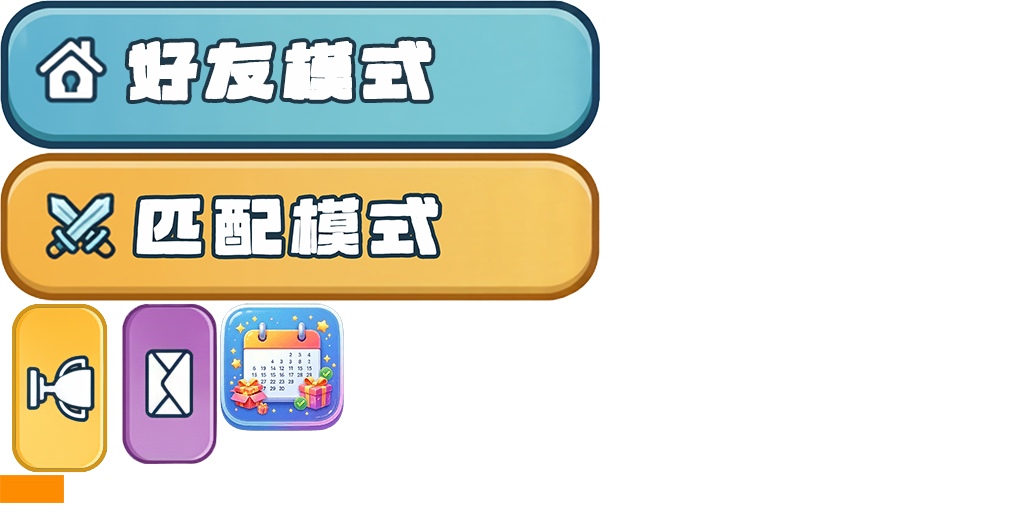
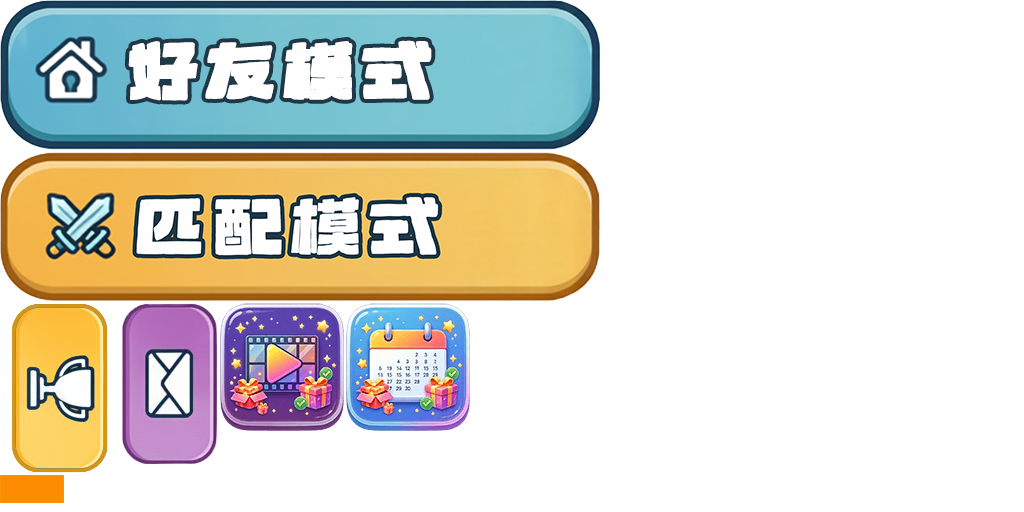
feat(ad): 添加广告奖励功能及相关UI组件
- 在BtnLobbyMenu组件中替换签到按钮图标为加载器并调整文字位置和样式
- 新增UI_BTN_AD按钮组件，支持“免费银子”广告按钮显示
- 添加ad.png广告图片资源并更新package.xml引用
- FGUICompLabbyMain类中新增UI_BTN_AD按钮及点击事件绑定
- 新增AdReward模块，实现请求和领取看广告奖励的网络接口调用及回调处理

Changed region(s): [[0.1875, 0.5938, 0.4688, 0.8438]]

diff --git a/assets/scripts/modules/AdReward.ts b/assets/scripts/modules/AdReward.ts
@@ -1,0 +1,64 @@
+import { SprotoCallActivityFunc } from "../../types/protocol/lobby/c2s";
+import { LogColors } from "../frameworks/Framework";
+import { LobbySocketManager } from "../frameworks/LobbySocketManager";
+
+
+export class AdReward {
+
+    private _getAdInfoCallBack: ((success: boolean, data: any) => void) | null = null;
+    private _receiveAdRewardCallBack: ((success: boolean, data: any) => void) | null = null;
+
+    /**
+     * 请求每日看广告领奖信息
+     * @param callBack 回调函数
+     */
+    reqGetAdInfo(callBack: (success: boolean, data: any) => void){
+        this._getAdInfoCallBack = callBack;
+        LobbySocketManager.instance.sendToServer(SprotoCallActivityFunc, {moduleName : 'adReward', funcName : 'getAdInfo', args:JSON.stringify({})}, this.respGetAdInfo.bind(this))
+    }
+
+    /**
+     * 获取广告信息回调
+     * @param result 获取结果
+     */
+    respGetAdInfo(result: SprotoCallActivityFunc.Response): void { 
+        if(result && result.code == 1){
+            const res = JSON.parse(result.result);
+            if(res.error){
+                console.log(LogColors.red(res.error));
+                this._getAdInfoCallBack && this._getAdInfoCallBack(false, res)
+            }else{
+                this._getAdInfoCallBack && this._getAdInfoCallBack(true, res)
+            }
+        }else{
+            this._getAdInfoCallBack && this._getAdInfoCallBack(false, null)
+        }
+    }
+
+    /**
+     * 领取看广告奖励
+     * @param callBack 回调函数
+     */
+    reqReceiveAdReward(callBack: (success: boolean, data: any) => void){
+        this._receiveAdRewardCallBack = callBack;
+        LobbySocketManager.instance.sendToServer(SprotoCallActivityFunc, {moduleName : 'adReward', funcName : 'receiveAdReward', args:JSON.stringify({})}, this.respReceiveAdReward.bind(this))
+    }
+
+    /**
+     * 领取奖励回调
+     * @param result 领取结果
+     */
+    respReceiveAdReward(result: SprotoCallActivityFunc.Response): void { 
+        if(result && result.code == 1){
+            const res = JSON.parse(result.result);
+            if(res.error){
+                console.log(LogColors.red(res.error));
+                this._receiveAdRewardCallBack && this._receiveAdRewardCallBack(false, res)
+            }else{
+                this._receiveAdRewardCallBack && this._receiveAdRewardCallBack(true, res)
+            }
+        }else{
+            this._receiveAdRewardCallBack && this._receiveAdRewardCallBack(false, null)
+        }
+    }
+}

diff --git a/assets/scripts/fgui/lobby/FGUICompLabbyMain.ts b/assets/scripts/fgui/lobby/FGUICompLabbyMain.ts
@@ -16,6 +16,7 @@ export default class FGUICompLabbyMain extends fgui.GComponent {
 	public UI_TXT_ENV:fgui.GTextField;
 	public UI_BTN_SHARE:fgui.GButton;
 	public UI_BTN_SIGN_IN:fgui.GButton;
+	public UI_BTN_AD:fgui.GButton;
 	public static URL:string = "ui://gv22rev3ln74i";
 
 	public static packageName:string = "lobby";
@@ -70,6 +71,8 @@ export default class FGUICompLabbyMain extends fgui.GComponent {
 		this.UI_BTN_SHARE.onClick(this.onBtnShare, this);
 		this.UI_BTN_SIGN_IN = <fgui.GButton>(this.getChildAt(7));
 		this.UI_BTN_SIGN_IN.onClick(this.onBtnSignIn, this);
+		this.UI_BTN_AD = <fgui.GButton>(this.getChildAt(8));
+		this.UI_BTN_AD.onClick(this.onBtnAd, this);
 	}
 	scheduleOnce(callback: () => void, delay: number):void{};
 	unscheduleAllCallbacks():void{};
@@ -81,5 +84,6 @@ export default class FGUICompLabbyMain extends fgui.GComponent {
 	onBtnRank():void{};
 	onBtnShare():void{};
 	onBtnSignIn():void{};
+	onBtnAd():void{};
 }
 fgui.UIObjectFactory.setExtension(FGUICompLabbyMain.URL, FGUICompLabbyMain);
